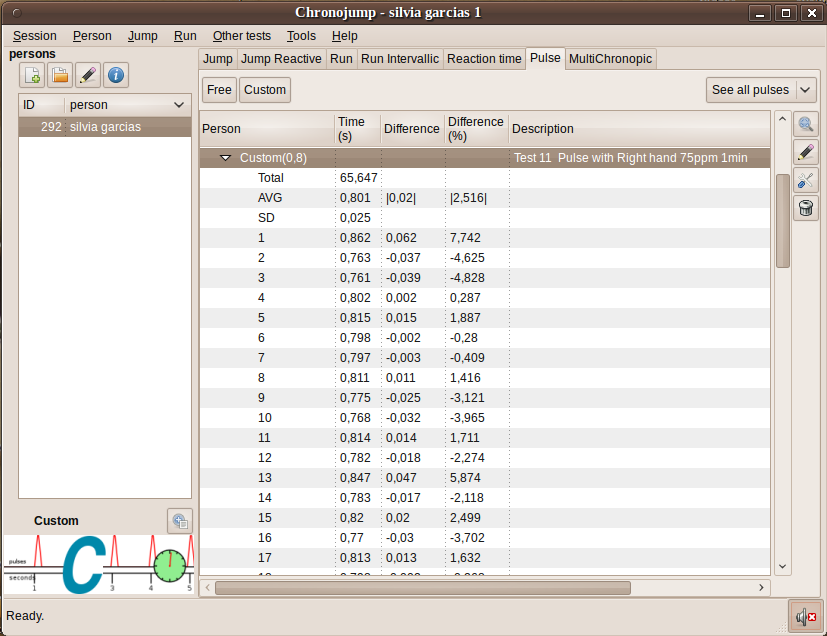
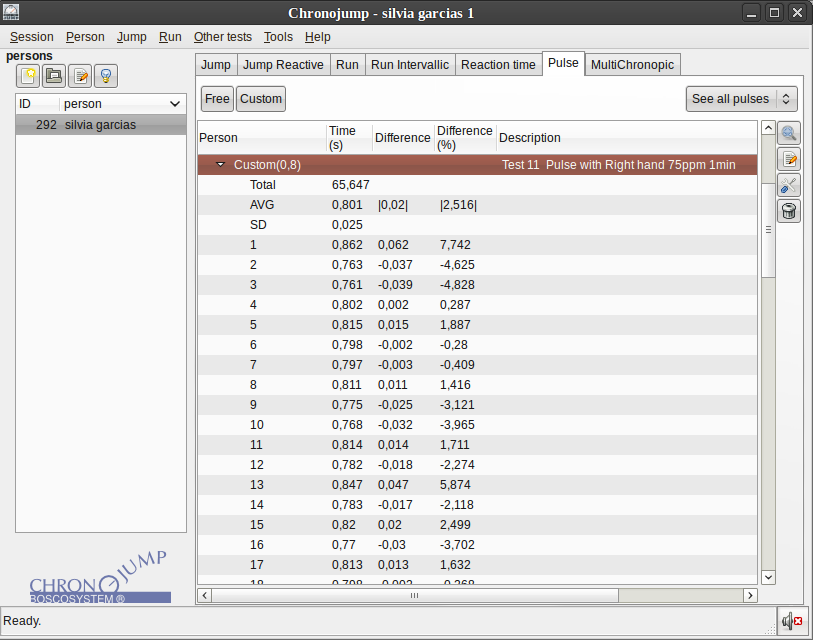
website software improvement

diff --git a/web/software.html b/web/software.html
@@ -132,6 +132,27 @@
 							</td>
 					</tr></table>
 				</div>
+				<div id="Install-Linux">
+					<table border="0">
+						<tr><th colspan="2"><h3>Install Chronojump on Linux</h3></th></tr>
+						<tr><td colspan="2" bgcolor="#6c77ab" height="1px"></td></tr>
+						<tr valign="top"><td valign="bottom">
+								<img src="images/chronojump-tux.png" alt="Chronojump">
+								</td><td width="100%">
+								<ul id="nospace">
+									<li><b>Debian/Ubuntu</b>: Open a terminal and paste this:
+									<tt>
+										<br>sudo add-apt-repository ppa:ylatuya/ppa
+										<br>sudo apt-get update
+										<br>sudo apt-get install chronojump
+									</tt>
+									<li><b>Fedora</b>: Soon available
+									<li><b>Sources</b> [expert]: <a href="http://ftp.gnome.org/pub/GNOME/sources/chronojump/0.9/">Download</a>
+										<br><tt>./configure, make, sudo&nbsp;make&nbsp;install</tt>
+								</ul>
+						</td></tr>
+					</table>
+				</div>
 			</div>
 			<div id="note">
 				<font size="2">
@@ -144,18 +165,13 @@
 						<tr><td colspan="3" bgcolor="#6c77ab" height="1px"></td></tr>
 						<tr>
 							<td align="left">
-								<b>0.9.1</b> (13-3-2010) <a href="http://forum.chronojump.org/showthread.php?tid=50">Changes</a>
+								<b>0.9.1</b> (2010-3-13) <a href="http://forum.chronojump.org/showthread.php?tid=50">Changes</a>
 							</td>
 							<td align="left">
 								<a href="http://ftp.gnome.org/pub/GNOME/binaries/win32/chronojump/Chronojump-0.9.1.exe">Chronojump&nbsp;0.9.1</a>
 							</td>
 							<td align="left"> 
-								<!--
-								<a href="http://ppa.launchpad.net/ylatuya/ppa/ubuntu">Ubuntu</a> - 
-								<a href="http://olea.org/paquetes-rpm/repoview/chronojump.html">Fedora</a> -
-								-->
-								<a href="http://ftp.gnome.org/pub/GNOME/sources/chronojump/0.9/">sources</a>
-								(Ubuntu and Fedora soon)
+								<a href="#Install-Linux">Chronojump&nbsp;0.9.1</a>
 							</td>
 						</tr>
 					</table>

diff --git a/web/software_es.html b/web/software_es.html
@@ -132,6 +132,27 @@
 							</td>
 					</tr></table>
 				</div>
+				<div id="Install-Linux">
+					<table border="0">
+						<tr><th colspan="2"><h3>Instalar Chronojump en Linux</h3></th></tr>
+						<tr><td colspan="2" bgcolor="#6c77ab" height="1px"></td></tr>
+						<tr valign="top"><td valign="bottom">
+								<img src="images/chronojump-tux.png" alt="Chronojump">
+								</td><td width="100%">
+								<ul id="nospace">
+									<li><b>Debian/Ubuntu</b>: Pegar este texto en una terminal:
+									<tt>
+										<br>sudo add-apt-repository ppa:ylatuya/ppa
+										<br>sudo apt-get update
+										<br>sudo apt-get install chronojump
+									</tt>
+									<li><b>Fedora</b>: Disponible en breve
+									<li><b>Sources</b> [experto]: <a href="http://ftp.gnome.org/pub/GNOME/sources/chronojump/0.9/">Download</a>
+										<br><tt>./configure, make, sudo&nbsp;make&nbsp;install</tt>
+								</ul>
+						</td></tr>
+					</table>
+				</div>
 			</div>
 			<div id="note">
 				<font size="2">
@@ -150,12 +171,7 @@
 								<a href="http://ftp.gnome.org/pub/GNOME/binaries/win32/chronojump/Chronojump-0.9.1.exe">Chronojump&nbsp;0.9.1</a>
 							</td>
 							<td align="left"> 
-								<!--
-								<a href="http://ppa.launchpad.net/ylatuya/ppa/ubuntu">Ubuntu</a> - 
-								<a href="http://olea.org/paquetes-rpm/repoview/chronojump.html">Fedora</a> -
-								-->
-								<a href="http://ftp.gnome.org/pub/GNOME/sources/chronojump/0.9/">fuentes</a>
-								(Ubuntu y Fedora en breve)
+								<a href="#Install-Linux">Chronojump&nbsp;0.9.1</a>
 							</td>
 						</tr>
 					</table>

diff --git a/src/angle/kneeAngle.cpp b/src/angle/kneeAngle.cpp
@@ -1400,8 +1400,6 @@ int main(int argc,char **argv)
 				}
 
 				else if(mouseClicked == THIPMORE || mouseClicked == THIPLESS) {
-sprintf(label, "hip more/less");
-imageGuiResult(gui, label, font);
 					if(pointIsNull(hipMarked)) {
 						//force mark first
 						mouseClicked = HIPMARK;
@@ -1462,8 +1460,6 @@ imageGuiResult(gui, label, font);
 				}
 
 				else if(mouseClicked == SHIPMORE || mouseClicked == SHIPLESS) {
-sprintf(label, "size hip more/less");
-imageGuiResult(gui, label, font);
 					if(pointIsNull(hipMarked)) {
 						//force mark first
 						mouseClicked = HIPMARK;
